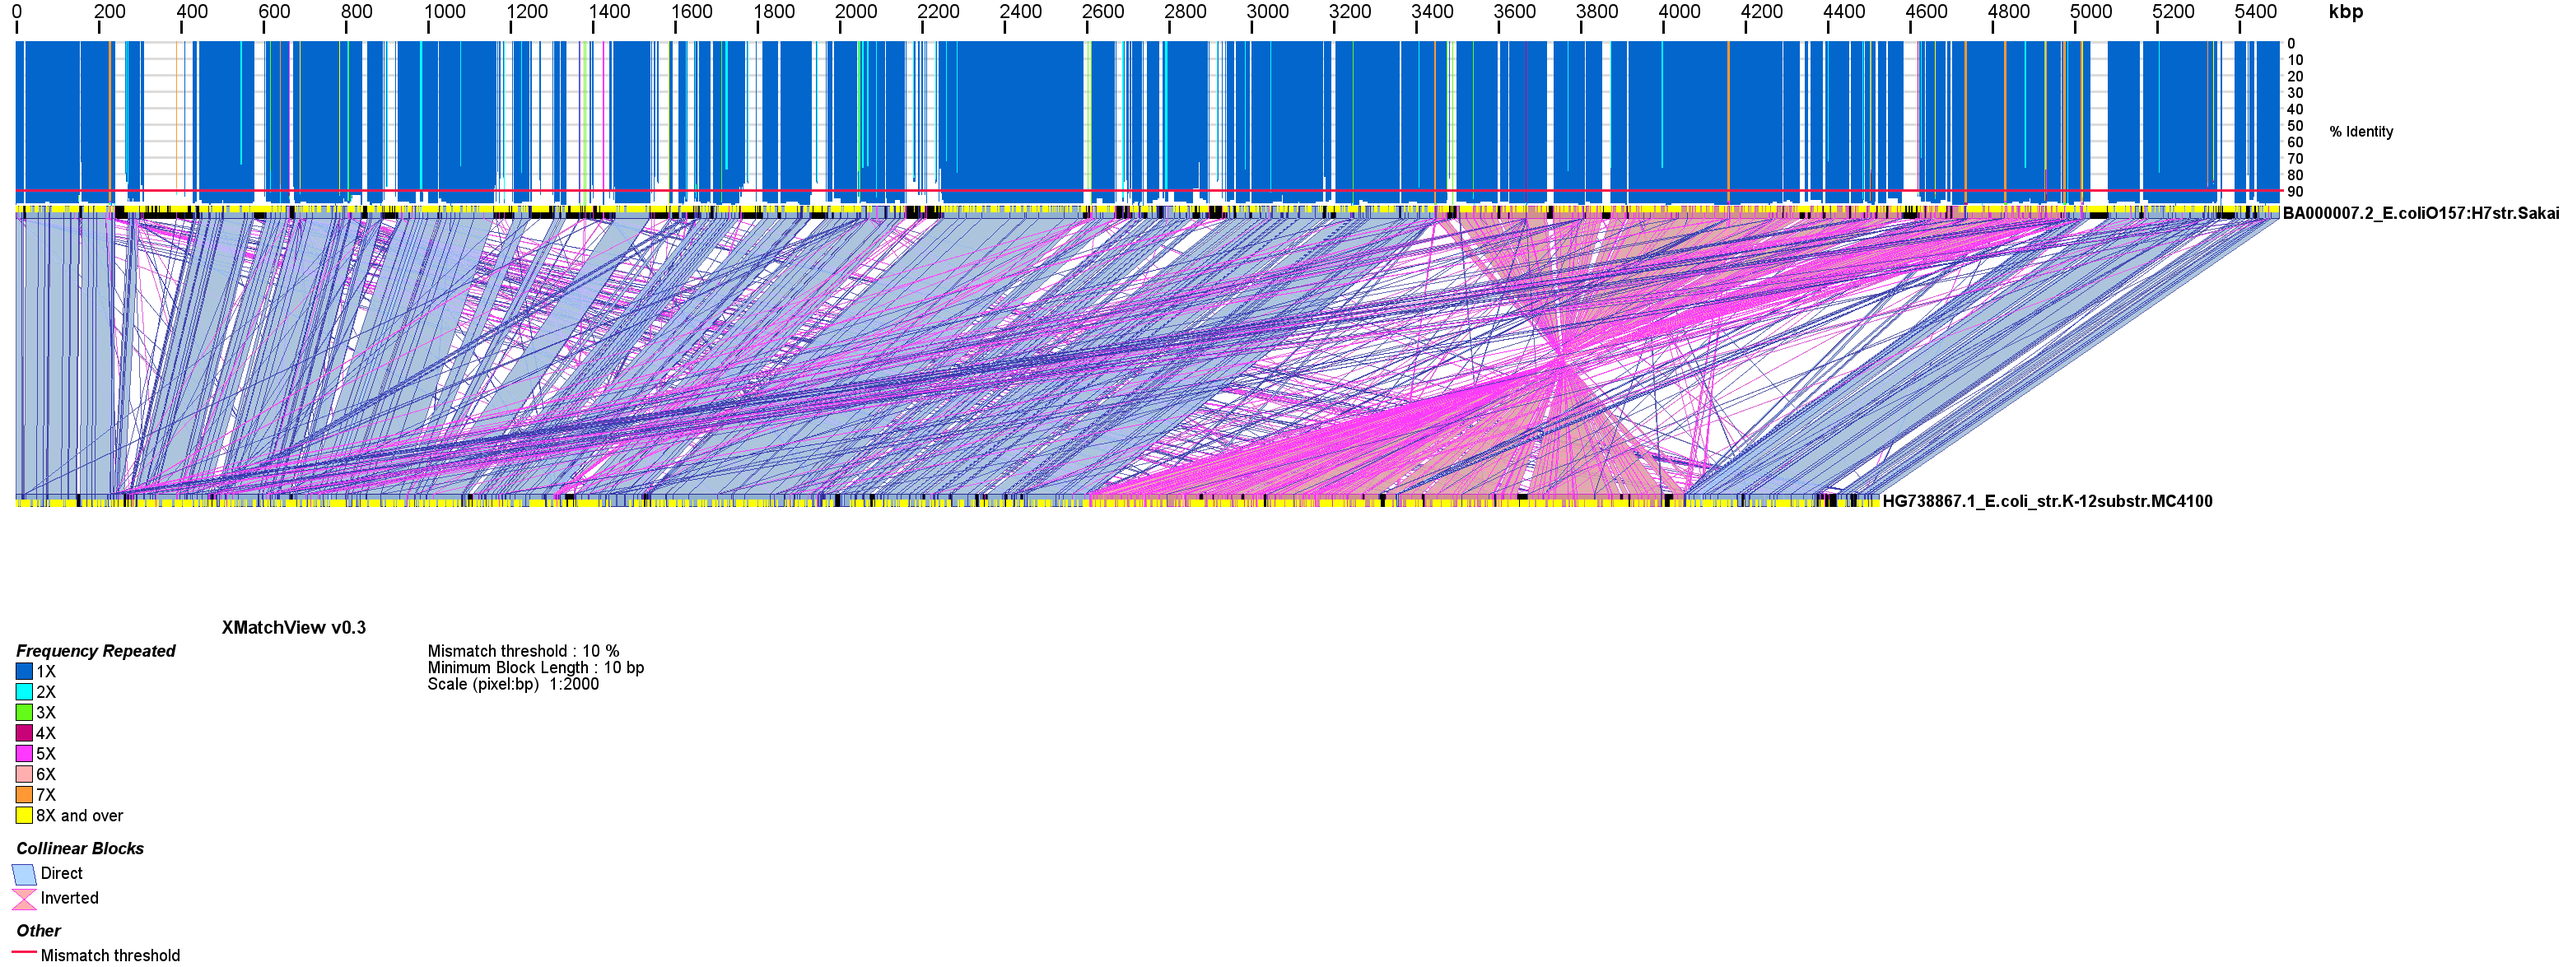
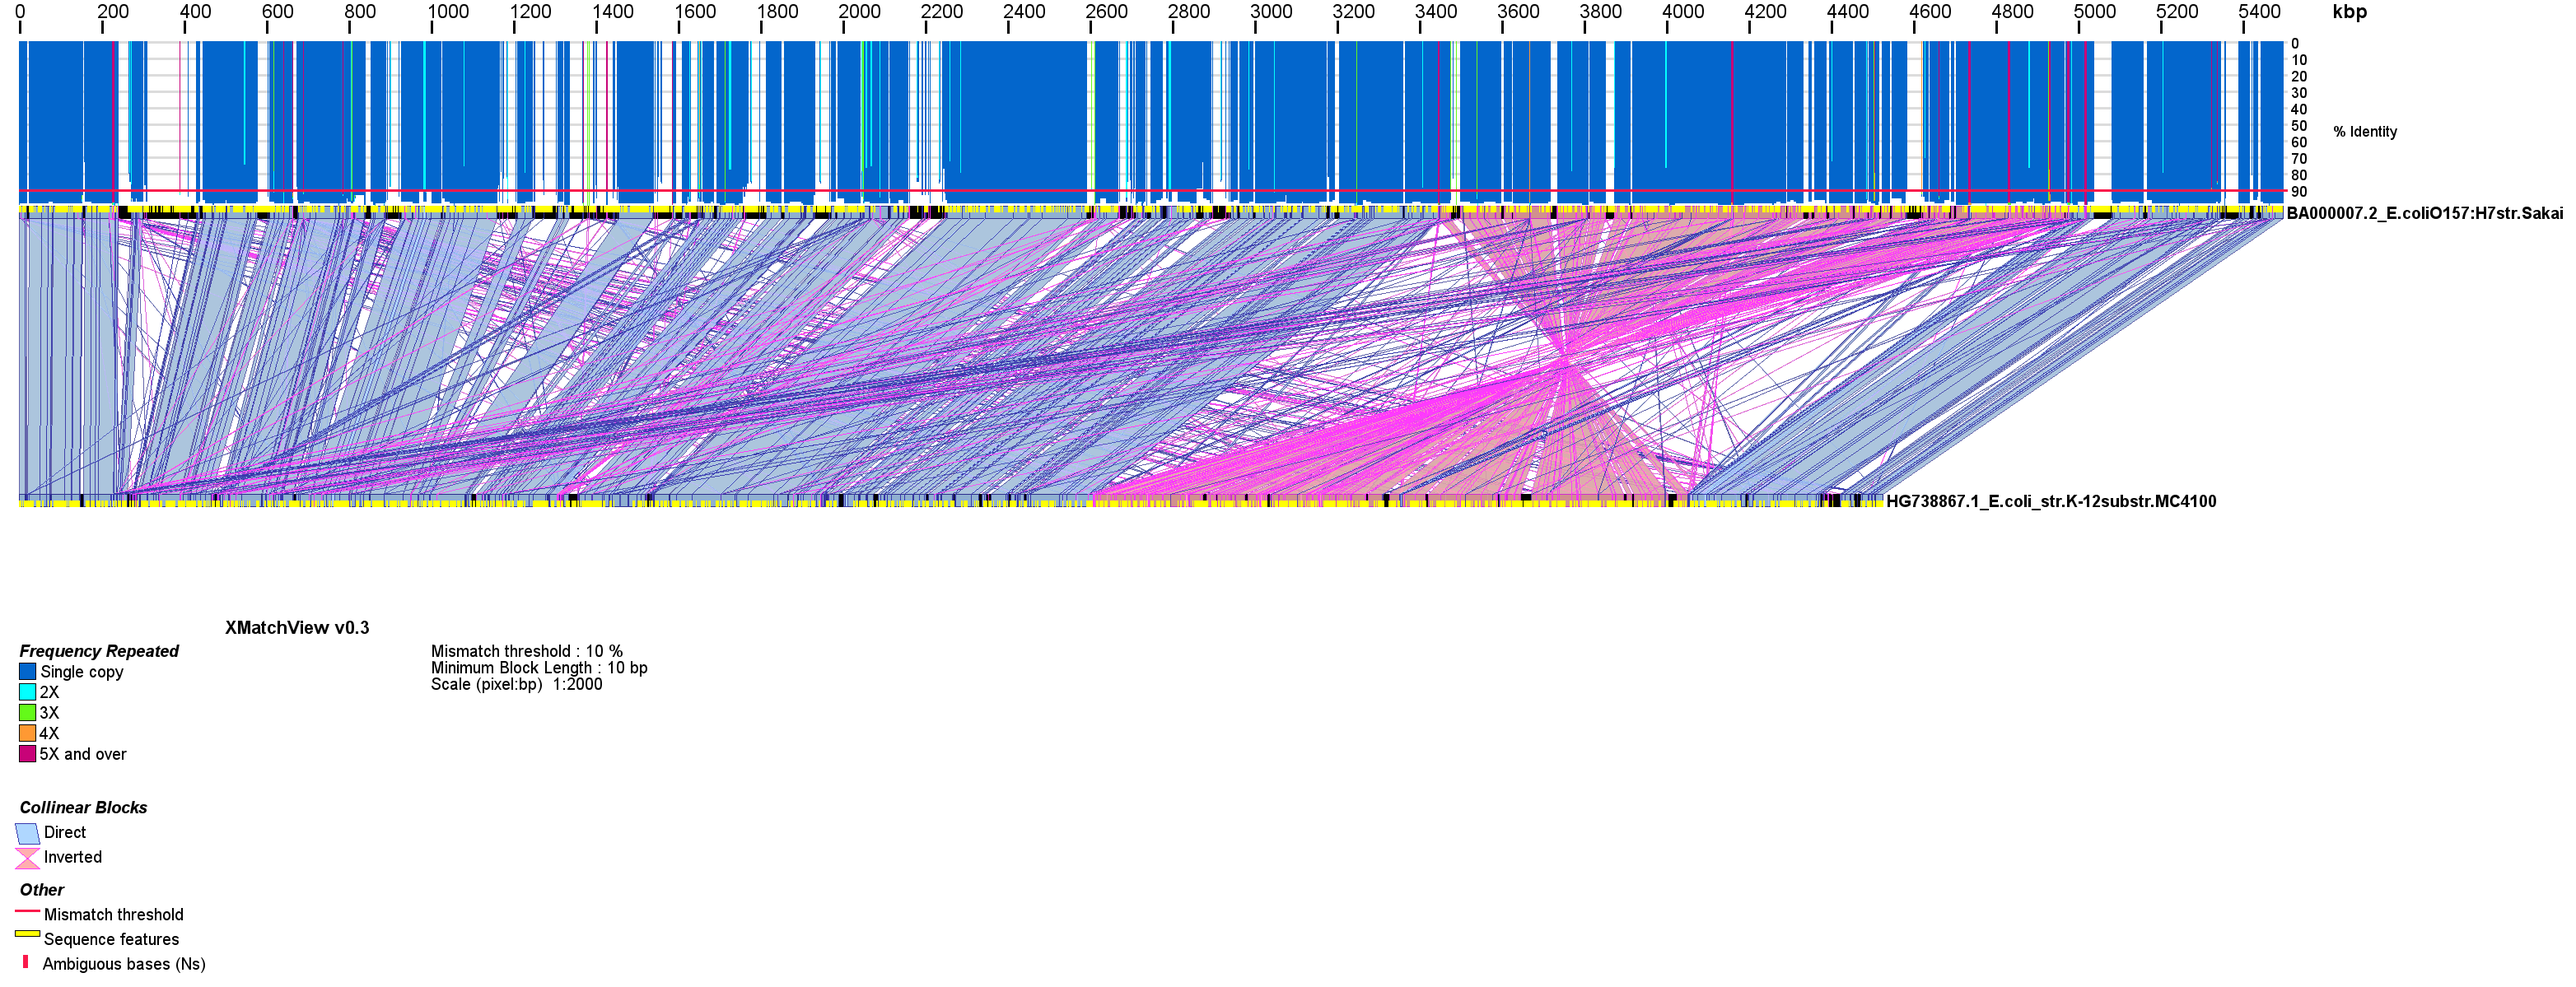
edited the figures. made changes to xmatchview with a simpler histogram/repeats

Changed region(s): [[0.0, 0.0, 0.9952, 0.5515], [0.0, 0.6128, 0.1555, 1.0], [0.1555, 0.6434, 0.2488, 0.7353]]

diff --git a/v0.3/XMatchView.py b/v0.3/XMatchView.py
@@ -338,15 +338,15 @@ def plotFrequency(freq,size,scale,draw,color,data,leap):
             elif cumul==3:
                color_now="green"
             elif cumul==4:
-               color_now="dirtyred"
-            elif cumul==5:
-               color_now="purple"
-            elif cumul==6:
-               color_now="salmon"
-            elif cumul==7:
                color_now="orange"
-            elif cumul>=8:
-               color_now="yellow"
+            elif cumul>=5:
+               color_now="dirtyred"
+            #elif cumul==6:
+            #   color_now="salmon"
+            #elif cumul==7:
+            #   color_now="orange"
+            #elif cumul>=8:
+            #   color_now="yellow"
 
             extension=((200-(2*id))+data['mis_bar'])   #RESTRICT SI AXIS y was 20
             compressed=(pos/scale)+data['x']           #x
@@ -410,7 +410,7 @@ def drawRelationship(reference_list, query_list, match_list, scale, query_hit, m
 
       y_legend+=25
       bdraw.rectangle((data['x_legend_picto'],y_legend,data['x_legend_picto']+20,y_legend+20), outline=color['black'], fill=color['blue'])
-      bdraw.text((data['x_legend_picto']+25,y_legend), "1X", font=arial_20, fill=color['black'])
+      bdraw.text((data['x_legend_picto']+25,y_legend), "Single copy", font=arial_20, fill=color['black'])
       y_legend+=25
       bdraw.rectangle((data['x_legend_picto'],y_legend,data['x_legend_picto']+20,y_legend+20), outline=color['black'], fill=color['cyan'])
       bdraw.text((data['x_legend_picto']+25,y_legend), "2X", font=arial_20, fill=color['black'])
@@ -418,20 +418,20 @@ def drawRelationship(reference_list, query_list, match_list, scale, query_hit, m
       bdraw.rectangle((data['x_legend_picto'],y_legend,data['x_legend_picto']+20,y_legend+20), outline=color['black'], fill=color['green'])
       bdraw.text((data['x_legend_picto']+25,y_legend), "3X", font=arial_20, fill=color['black'])
       y_legend+=25
-      bdraw.rectangle((data['x_legend_picto'],y_legend,data['x_legend_picto']+20,y_legend+20), outline=color['black'], fill=color['dirtyred'])
+      bdraw.rectangle((data['x_legend_picto'],y_legend,data['x_legend_picto']+20,y_legend+20), outline=color['black'], fill=color['orange'])
       bdraw.text((data['x_legend_picto']+25,y_legend), "4X", font=arial_20, fill=color['black'])
       y_legend+=25
-      bdraw.rectangle((data['x_legend_picto'],y_legend,data['x_legend_picto']+20,y_legend+20), outline=color['black'], fill=color['purple'])
-      bdraw.text((data['x_legend_picto']+25,y_legend), "5X", font=arial_20, fill=color['black'])
+      bdraw.rectangle((data['x_legend_picto'],y_legend,data['x_legend_picto']+20,y_legend+20), outline=color['black'], fill=color['dirtyred'])
+      bdraw.text((data['x_legend_picto']+25,y_legend), "5X and over", font=arial_20, fill=color['black'])
       y_legend+=25
-      bdraw.rectangle((data['x_legend_picto'],y_legend,data['x_legend_picto']+20,y_legend+20), outline=color['black'], fill=color['salmon'])
-      bdraw.text((data['x_legend_picto']+25,y_legend), "6X", font=arial_20, fill=color['black'])
-      y_legend+=25
-      bdraw.rectangle((data['x_legend_picto'],y_legend,data['x_legend_picto']+20,y_legend+20), outline=color['black'], fill=color['orange'])
-      bdraw.text((data['x_legend_picto']+25,y_legend), "7X", font=arial_20, fill=color['black'])
-      y_legend+=25
-      bdraw.rectangle((data['x_legend_picto'],y_legend,data['x_legend_picto']+20,y_legend+20), outline=color['black'], fill=color['yellow'])
-      bdraw.text((data['x_legend_picto']+25,y_legend), "8X and over", font=arial_20, fill=color['black'])
+      #bdraw.rectangle((data['x_legend_picto'],y_legend,data['x_legend_picto']+20,y_legend+20), outline=color['black'], fill=color['salmon'])
+      #bdraw.text((data['x_legend_picto']+25,y_legend), "6X", font=arial_20, fill=color['black'])
+      #y_legend+=25
+      #bdraw.rectangle((data['x_legend_picto'],y_legend,data['x_legend_picto']+20,y_legend+20), outline=color['black'], fill=color['orange'])
+      #bdraw.text((data['x_legend_picto']+25,y_legend), "7X", font=arial_20, fill=color['black'])
+      #y_legend+=25
+      #bdraw.rectangle((data['x_legend_picto'],y_legend,data['x_legend_picto']+20,y_legend+20), outline=color['black'], fill=color['yellow'])
+      #bdraw.text((data['x_legend_picto']+25,y_legend), "8X and over", font=arial_20, fill=color['black'])
       y_legend+=40
 
       bdraw.text((data['x_legend_picto'],y_legend), "Collinear Blocks", font=arialbi_20, fill=color['black'])
@@ -451,6 +451,16 @@ def drawRelationship(reference_list, query_list, match_list, scale, query_hit, m
 
       bdraw.rectangle((data['x_legend_picto']-5,y_legend+5,data['x_legend_picto']+25,y_legend+7), fill=color['red'])
       bdraw.text((data['x_legend_picto']+30,y_legend), "Mismatch threshold", font=arial_20, fill=color['black'])
+      y_legend+=30
+
+      bdraw.rectangle((data['x_legend_picto']-5,y_legend,data['x_legend_picto']+25,y_legend+(data['reference_thick']/2)), outline=color['black'], fill=color['yellow'])
+      bdraw.text((data['x_legend_picto']+30,y_legend), "Sequence features", font=arial_20, fill=color['black'])
+      y_legend+=30
+      
+
+      bdraw.rectangle((data['x_legend_picto']+5,y_legend,data['x_legend_picto']+10,y_legend+data['reference_thick']), outline=color['red'], fill=color['red'])
+      bdraw.text((data['x_legend_picto']+30,y_legend), "Ambiguous bases (Ns)", font=arial_20, fill=color['black'])
+      y_legend+=30
 
       ####
       for ref in reference_list:
@@ -605,19 +615,19 @@ def drawRelationship(reference_list, query_list, match_list, scale, query_hit, m
       #xm_name = xm_regex.match(crossmatch_file)
       #file = xm_name.group(1) + "_m" + str(mismatch) + "_b" + str(block_length) + "_l" + str(leap) + "_s" + str(scale) + "." + format
 
-      ####draw exons on side of ref
+      ####draw features (eg. exons) on side of ref
       ###REF gene model
       
       for scaledexstart in refexon:
           #print "ex start: %i" % exstart
           exstart = data['x'] + scaledexstart
           exend = data['x'] + refexon[scaledexstart] 
-          draw.rectangle((exstart,data['ref_y'],exend,data['ref_y']+(data['reference_thick']/2)),outline=color['black'], fill=color['yellow'])###exons
+          draw.rectangle((exstart,data['ref_y'],exend,data['ref_y']+(data['reference_thick']/2)),outline=color['yellow'], fill=color['yellow'])###features/exons
       if refname != qryname:
           for scaledexstart in qryexon:
               exstart = data['x'] + scaledexstart
               exend = data['x'] + qryexon[scaledexstart]
-              draw.rectangle((exstart,data['ref_y']+decay+(data['reference_thick']/2),exend,data['ref_y']+decay+data['reference_thick']),outline=color['black'], fill=color['yellow'])###exons
+              draw.rectangle((exstart,data['ref_y']+decay+(data['reference_thick']/2)+1,exend,data['ref_y']+decay+data['reference_thick']),outline=color['yellow'], fill=color['yellow'])###features/exons
 
       ### draw start position of Ns
       for nstart in refnpos:
@@ -693,15 +703,15 @@ def main():
       print "-x crossmatch file"
       print "-s reference genome fasta file"
       print "-q query contig/genome fasta file"
-      print "-e reference exon coordinates tsv file (start end) - optional"
-      print "-y query exon coordinates tsv file (start end) - optional"
+      print "-e reference features (eg. exons) coordinates tsv file (start end) - optional"
+      print "-y query features (eg. exons) coordinates tsv file (start end) - optional"
       print "-m mismatch threshold (e.g. -m 10 allows representation of repeats having up to 10% mismatch"
-      print "-r length of similarity block to display"
+      print "-r length (bp) of similarity block to display"
       print "-c scale (pixel to basepair scale, for displaying the image)"
-      print "-l leap to evaluate repeat frequency (smaller numbers will increase the resolution, but will affect drastically the run time.  recommended -l=50)"
+      print "-l leap (bp) to evaluate repeat frequency (smaller numbers will increase the resolution, but will affect drastically the run time.  recommended -l=50)"
       print "-f file format (bmp, jpeg, png, ps, gif, pdf, tiff) NOTE: the png, ps, tiff and bmp are much better."
       print "-a alpha value, from 0 (transparent) to 255 (solid, default)"
-      print "-p transform bacterial ORF into protein (i.e. plot alignment between ORF products? 1/0)";
+      print "-p transform bacterial ORF into protein (i.e. plot alignment between ORF products? 1/0) -not fully tested-";
       print "* Files for the -s and -q options must correspond to fasta files used to run cross_match"
       sys.exit(1)
 
@@ -730,7 +740,7 @@ def main():
    checkFile(reference_file)
    checkFile(query_file)
 
-   ###OPTIONAL, FOR EXON REPRESENTATION
+   ###OPTIONAL, FOR FEATURES/EXON REPRESENTATION
    (refexon,qryexon) = ({},{})
    if(ref_exon_file != None and qry_exon_file != None):
       checkFile(ref_exon_file)

diff --git a/xmatchview.py b/xmatchview.py
@@ -338,15 +338,15 @@ def plotFrequency(freq,size,scale,draw,color,data,leap):
             elif cumul==3:
                color_now="green"
             elif cumul==4:
-               color_now="dirtyred"
-            elif cumul==5:
-               color_now="purple"
-            elif cumul==6:
-               color_now="salmon"
-            elif cumul==7:
                color_now="orange"
-            elif cumul>=8:
-               color_now="yellow"
+            elif cumul>=5:
+               color_now="dirtyred"
+            #elif cumul==6:
+            #   color_now="salmon"
+            #elif cumul==7:
+            #   color_now="orange"
+            #elif cumul>=8:
+            #   color_now="yellow"
 
             extension=((200-(2*id))+data['mis_bar'])   #RESTRICT SI AXIS y was 20
             compressed=(pos/scale)+data['x']           #x
@@ -410,7 +410,7 @@ def drawRelationship(reference_list, query_list, match_list, scale, query_hit, m
 
       y_legend+=25
       bdraw.rectangle((data['x_legend_picto'],y_legend,data['x_legend_picto']+20,y_legend+20), outline=color['black'], fill=color['blue'])
-      bdraw.text((data['x_legend_picto']+25,y_legend), "1X", font=arial_20, fill=color['black'])
+      bdraw.text((data['x_legend_picto']+25,y_legend), "Single copy", font=arial_20, fill=color['black'])
       y_legend+=25
       bdraw.rectangle((data['x_legend_picto'],y_legend,data['x_legend_picto']+20,y_legend+20), outline=color['black'], fill=color['cyan'])
       bdraw.text((data['x_legend_picto']+25,y_legend), "2X", font=arial_20, fill=color['black'])
@@ -418,20 +418,20 @@ def drawRelationship(reference_list, query_list, match_list, scale, query_hit, m
       bdraw.rectangle((data['x_legend_picto'],y_legend,data['x_legend_picto']+20,y_legend+20), outline=color['black'], fill=color['green'])
       bdraw.text((data['x_legend_picto']+25,y_legend), "3X", font=arial_20, fill=color['black'])
       y_legend+=25
-      bdraw.rectangle((data['x_legend_picto'],y_legend,data['x_legend_picto']+20,y_legend+20), outline=color['black'], fill=color['dirtyred'])
+      bdraw.rectangle((data['x_legend_picto'],y_legend,data['x_legend_picto']+20,y_legend+20), outline=color['black'], fill=color['orange'])
       bdraw.text((data['x_legend_picto']+25,y_legend), "4X", font=arial_20, fill=color['black'])
       y_legend+=25
-      bdraw.rectangle((data['x_legend_picto'],y_legend,data['x_legend_picto']+20,y_legend+20), outline=color['black'], fill=color['purple'])
-      bdraw.text((data['x_legend_picto']+25,y_legend), "5X", font=arial_20, fill=color['black'])
+      bdraw.rectangle((data['x_legend_picto'],y_legend,data['x_legend_picto']+20,y_legend+20), outline=color['black'], fill=color['dirtyred'])
+      bdraw.text((data['x_legend_picto']+25,y_legend), "5X and over", font=arial_20, fill=color['black'])
       y_legend+=25
-      bdraw.rectangle((data['x_legend_picto'],y_legend,data['x_legend_picto']+20,y_legend+20), outline=color['black'], fill=color['salmon'])
-      bdraw.text((data['x_legend_picto']+25,y_legend), "6X", font=arial_20, fill=color['black'])
-      y_legend+=25
-      bdraw.rectangle((data['x_legend_picto'],y_legend,data['x_legend_picto']+20,y_legend+20), outline=color['black'], fill=color['orange'])
-      bdraw.text((data['x_legend_picto']+25,y_legend), "7X", font=arial_20, fill=color['black'])
-      y_legend+=25
-      bdraw.rectangle((data['x_legend_picto'],y_legend,data['x_legend_picto']+20,y_legend+20), outline=color['black'], fill=color['yellow'])
-      bdraw.text((data['x_legend_picto']+25,y_legend), "8X and over", font=arial_20, fill=color['black'])
+      #bdraw.rectangle((data['x_legend_picto'],y_legend,data['x_legend_picto']+20,y_legend+20), outline=color['black'], fill=color['salmon'])
+      #bdraw.text((data['x_legend_picto']+25,y_legend), "6X", font=arial_20, fill=color['black'])
+      #y_legend+=25
+      #bdraw.rectangle((data['x_legend_picto'],y_legend,data['x_legend_picto']+20,y_legend+20), outline=color['black'], fill=color['orange'])
+      #bdraw.text((data['x_legend_picto']+25,y_legend), "7X", font=arial_20, fill=color['black'])
+      #y_legend+=25
+      #bdraw.rectangle((data['x_legend_picto'],y_legend,data['x_legend_picto']+20,y_legend+20), outline=color['black'], fill=color['yellow'])
+      #bdraw.text((data['x_legend_picto']+25,y_legend), "8X and over", font=arial_20, fill=color['black'])
       y_legend+=40
 
       bdraw.text((data['x_legend_picto'],y_legend), "Collinear Blocks", font=arialbi_20, fill=color['black'])
@@ -451,6 +451,16 @@ def drawRelationship(reference_list, query_list, match_list, scale, query_hit, m
 
       bdraw.rectangle((data['x_legend_picto']-5,y_legend+5,data['x_legend_picto']+25,y_legend+7), fill=color['red'])
       bdraw.text((data['x_legend_picto']+30,y_legend), "Mismatch threshold", font=arial_20, fill=color['black'])
+      y_legend+=30
+
+      bdraw.rectangle((data['x_legend_picto']-5,y_legend,data['x_legend_picto']+25,y_legend+(data['reference_thick']/2)), outline=color['black'], fill=color['yellow'])
+      bdraw.text((data['x_legend_picto']+30,y_legend), "Sequence features", font=arial_20, fill=color['black'])
+      y_legend+=30
+      
+
+      bdraw.rectangle((data['x_legend_picto']+5,y_legend,data['x_legend_picto']+10,y_legend+data['reference_thick']), outline=color['red'], fill=color['red'])
+      bdraw.text((data['x_legend_picto']+30,y_legend), "Ambiguous bases (Ns)", font=arial_20, fill=color['black'])
+      y_legend+=30
 
       ####
       for ref in reference_list:
@@ -612,12 +622,12 @@ def drawRelationship(reference_list, query_list, match_list, scale, query_hit, m
           #print "ex start: %i" % exstart
           exstart = data['x'] + scaledexstart
           exend = data['x'] + refexon[scaledexstart] 
-          draw.rectangle((exstart,data['ref_y'],exend,data['ref_y']+(data['reference_thick']/2)),outline=color['black'], fill=color['yellow'])###features/exons
+          draw.rectangle((exstart,data['ref_y'],exend,data['ref_y']+(data['reference_thick']/2)),outline=color['yellow'], fill=color['yellow'])###features/exons
       if refname != qryname:
           for scaledexstart in qryexon:
               exstart = data['x'] + scaledexstart
               exend = data['x'] + qryexon[scaledexstart]
-              draw.rectangle((exstart,data['ref_y']+decay+(data['reference_thick']/2),exend,data['ref_y']+decay+data['reference_thick']),outline=color['black'], fill=color['yellow'])###features/exons
+              draw.rectangle((exstart,data['ref_y']+decay+(data['reference_thick']/2)+1,exend,data['ref_y']+decay+data['reference_thick']),outline=color['yellow'], fill=color['yellow'])###features/exons
 
       ### draw start position of Ns
       for nstart in refnpos:
